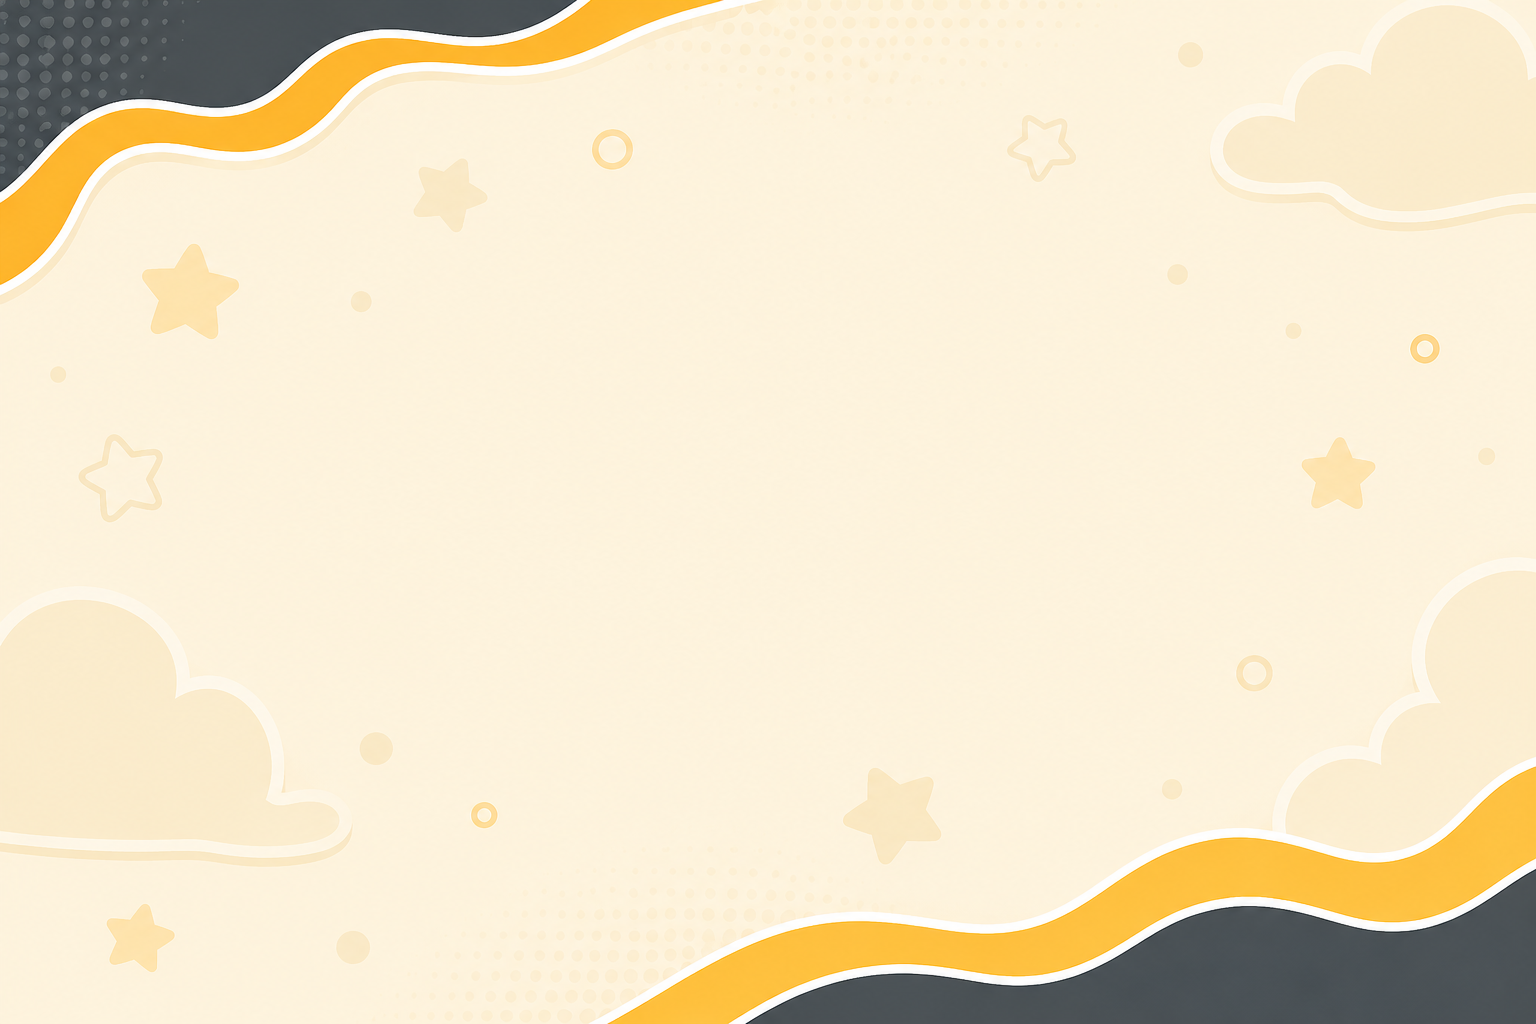
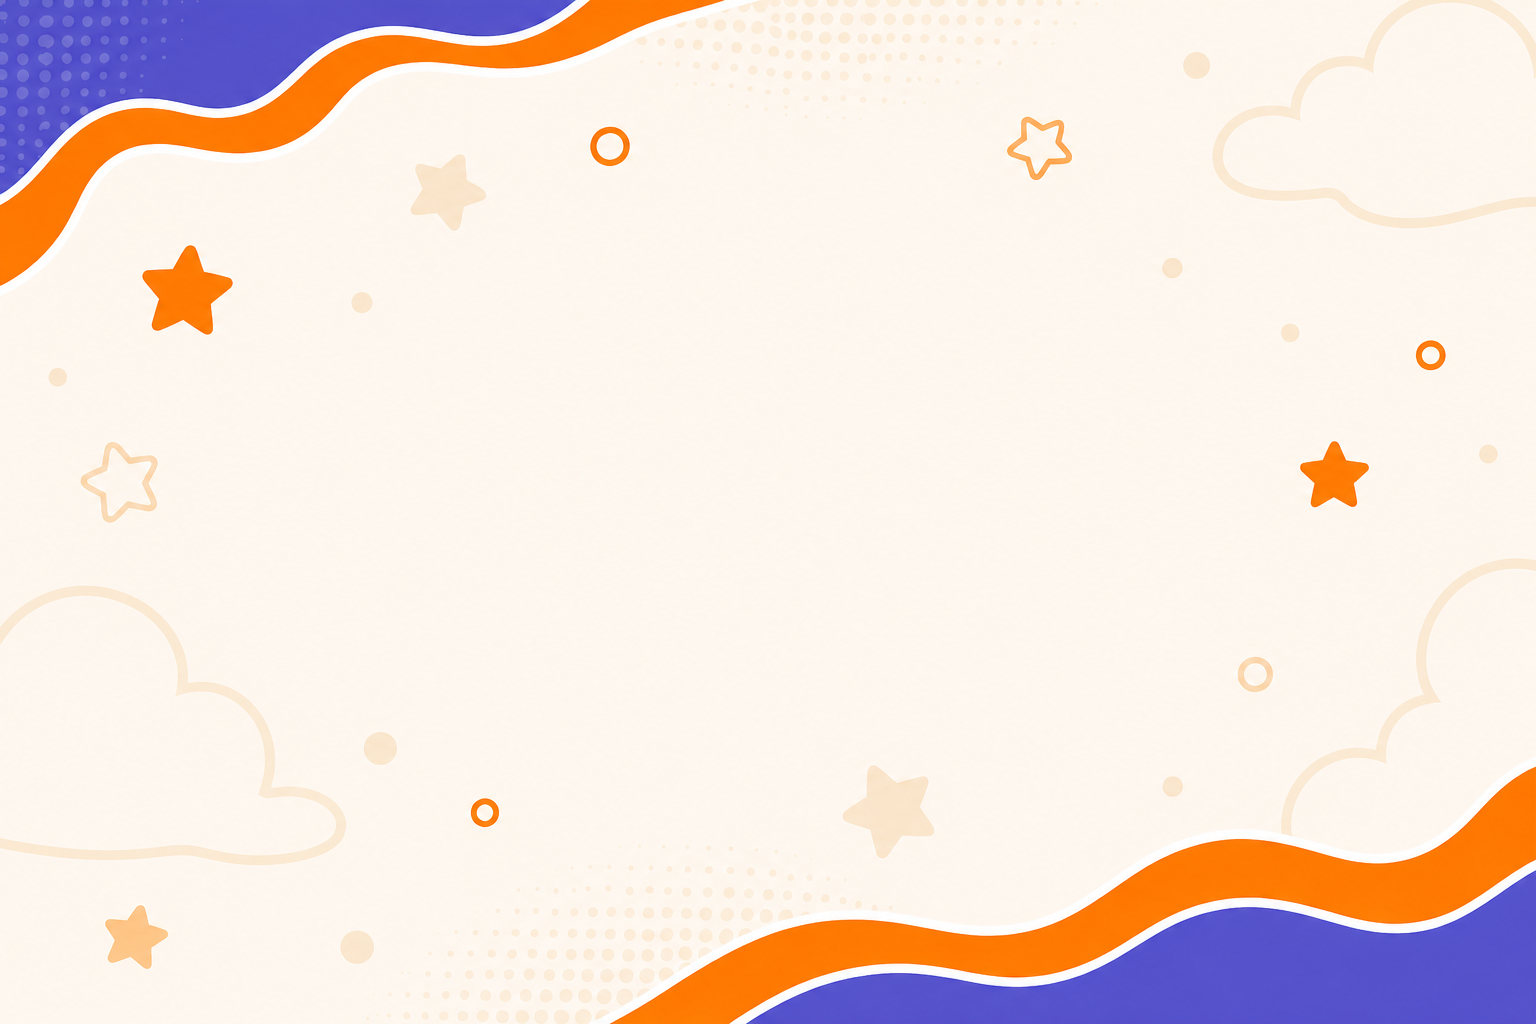
troca de cores, imagens

diff --git a/src/components/button/BackButton.js b/src/components/button/BackButton.js
@@ -1,26 +1,70 @@
+import { Sprite, Texture, Rectangle } from 'pixi.js';
 import { App } from '../../app/App.js';
 import { CustomButton } from './CustomButton.js';
+
+import BackArrow from '../../assets/images/back.png';
+import BackArrowHover from '../../assets/images/back_hover.png';
 
 const BACK_BUTTON_SETTINGS = {
   width: 70,
   height: 50,
-  backgroundColor: 0XE39F2D,
-  hoverColor: 0XFCD2AE,
-  borderColor: 0x474747,
-  fontSize: 18
+  backgroundColor: 0xFF7E00,
+  hoverColor: 0xFCD2AE,
+  borderColor: 0x5549E3
 };
 
 export class BackButton extends CustomButton {
   constructor() {
-    super('Back', BACK_BUTTON_SETTINGS)
+    super('', BACK_BUTTON_SETTINGS);
 
-    this._setPosition()
+    this.background.visible = false;
+    this.text.visible = false;
+
+    const normalTexture = Texture.from(BackArrow);
+    const hoverTexture = Texture.from(BackArrowHover);
+
+    const arrow = new Sprite(normalTexture);
+
+    arrow.anchor.set(0.5);
+    arrow.scale.set(0.17);
+    arrow.position.set(
+      BACK_BUTTON_SETTINGS.width / 2,
+      BACK_BUTTON_SETTINGS.height / 2
+    );
+
+    this.addChild(arrow);
+
+    this.eventMode = 'static';
+    this.hitArea = new Rectangle(
+      arrow.x - 15,
+      arrow.y - 15,
+      27,
+      27
+    );
+
+    this.onHover = () => {
+      arrow.texture = hoverTexture;
+    };
+
+    this.onLeave = () => {
+      arrow.texture = normalTexture;
+    };
+
+    // Garante que o botão sempre inicie na textura normal
+    arrow.texture = normalTexture;
+
+    // Força uma atualização no próximo ciclo
+    setTimeout(() => {
+      arrow.texture = normalTexture;
+    }, 0);
+
+    this._setPosition();
   }
 
   _setPosition() {
-    const positionX = 20
-    const positionY = App.getInstance().renderer.height - 70
+    const positionX = 20;
+    const positionY = App.getInstance().renderer.height - 70;
 
-    this.position.set(positionX, positionY)
+    this.position.set(positionX, positionY);
   }
 }

diff --git a/src/data/categories/countries.js b/src/data/categories/countries.js
@@ -1,25 +1,25 @@
 export const COUNTRIES = {
   title: 'Countries',
   items: [
-    { name: 'brazil', image: 'brazil.png' },
-    { name: 'america', image: 'america.png' },
-    { name: 'argentina', image: 'argentina.png' },
-    { name: 'australia', image: 'australia.png' },
-    { name: 'canada', image: 'canada.png' },
-    { name: 'china', image: 'china.png' },
-    { name: 'egypt', image: 'egypt.png' },
-    { name: 'england', image: 'england.png' },
-    { name: 'france', image: 'france.png' },
-    { name: 'germany', image: 'germany.png' },
-    { name: 'india', image: 'india.png' },
-    { name: 'ireland', image: 'ireland.png' },
-    { name: 'italy', image: 'italy.png' },
-    { name: 'japan', image: 'japan.png' },
-    { name: 'mexico', image: 'mexico.png' },
-    { name: 'russia', image: 'russia.png' },
-    { name: 'south africa', image: 'south_africa.png' },
-    { name: 'spain', image: 'spain.png' },
-    { name: 'thailand', image: 'thailand.png' },
-    { name: 'turkey', image: 'turkey.png' }
+    { name: 'Brazil', image: 'brazil.png' },
+    { name: 'America', image: 'america.png' },
+    { name: 'Argentina', image: 'argentina.png' },
+    { name: 'Australia', image: 'australia.png' },
+    { name: 'Canada', image: 'canada.png' },
+    { name: 'China', image: 'china.png' },
+    { name: 'Egypt', image: 'egypt.png' },
+    { name: 'England', image: 'england.png' },
+    { name: 'France', image: 'france.png' },
+    { name: 'Germany', image: 'germany.png' },
+    { name: 'India', image: 'india.png' },
+    { name: 'Ireland', image: 'ireland.png' },
+    { name: 'Italy', image: 'italy.png' },
+    { name: 'Japan', image: 'japan.png' },
+    { name: 'Mexico', image: 'mexico.png' },
+    { name: 'Russia', image: 'russia.png' },
+    { name: 'South Africa', image: 'south_africa.png' },
+    { name: 'Spain', image: 'spain.png' },
+    { name: 'Thailand', image: 'thailand.png' },
+    { name: 'Turkey', image: 'turkey.png' }
   ]
 };

diff --git a/src/components/button/ButtonInteraction.js b/src/components/button/ButtonInteraction.js
@@ -19,12 +19,28 @@ export class ButtonInteraction {
   }
 
   _mouseOver() {
-    this.button.background.changeColor(this.buttonConfig.hoverColor);
+    if (this.button.background.visible) {
+      this.button.background.changeColor(this.buttonConfig.hoverColor);
+    }
+
+    if (typeof this.button.onHover === 'function') {
+      this.button.onHover();
+    }
   }
+
   _mouseOut() {
-    this.button.background.changeColor(this.buttonConfig.backgroundColor);
+    if (this.button.background.visible) {
+      this.button.background.changeColor(this.buttonConfig.backgroundColor);
+    }
+
+    if (typeof this.button.onLeave === 'function') {
+      this.button.onLeave();
+    }
   }
+
   _mouseUp() {
-    this.button.background.changeColor(this.buttonConfig.backgroundColor);
+    if (this.button.background.visible) {
+      this.button.background.changeColor(this.buttonConfig.backgroundColor);
+    }
   }
 }

diff --git a/src/data/categories/subjects.js b/src/data/categories/subjects.js
@@ -5,14 +5,14 @@ export const SUBJECTS = {
     { name: 'art', image: 'art.png' },
     { name: 'biology', image: 'biology.png' },
     { name: 'chemistry', image: 'chemistry.png' },
-    { name: 'chinese', image: 'chinese.png' },
+    { name: 'Chinese', image: 'chinese.png' },
     { name: 'computing', image: 'computing.png' },
-    { name: 'english', image: 'english.png' },
+    { name: 'English', image: 'english.png' },
     { name: 'geography', image: 'geography.png' },
     { name: 'history', image: 'history.png' },
     { name: 'music', image: 'music.png' },
     { name: 'physical education', image: 'physical_education.png' },
     { name: 'physics', image: 'physics.png' },
-    { name: 'spanish', image: 'spanish.png' }
+    { name: 'Spanish', image: 'spanish.png' }
   ]
 };

diff --git a/src/styles/screens-components-styles/game-screen/components/round/round-counter-container-styles.js b/src/styles/screens-components-styles/game-screen/components/round/round-counter-container-styles.js
@@ -5,8 +5,8 @@ export const roundCounterContainerStyles = {
     width: 175,
     height: 75,
     backgroundColor: GLOBAL_COLORS.PRIMARY,
-    borderColor: 0x474747,
-    backgroundColor: 0xE39F2D,
+    borderColor: 0x5549e3,
+    backgroundColor: 0xFF7E00,
     borderWidth: 4,
     borderRadius: 30,
   },
@@ -14,8 +14,8 @@ export const roundCounterContainerStyles = {
     width: 175,
     height: 75,
     backgroundColor: GLOBAL_COLORS.PRIMARY,
-    borderColor: 0x474747,
-    backgroundColor: 0xE39F2D,
+    borderColor: 0x5549e3,
+    backgroundColor: 0xFF7E00,
     borderWidth: 4,
     borderRadius: 30,
   },

diff --git a/src/styles/screens-components-styles/game-screen/components/score/score-styles.js b/src/styles/screens-components-styles/game-screen/components/score/score-styles.js
@@ -6,8 +6,8 @@ export const scoreStyles = {
     width: 170,
     height: 70,
     backgroundColor: GLOBAL_COLORS.PRIMARY,
-    borderColor: 0x474747,
-    backgroundColor: 0xE39F2D,
+    borderColor: 0x5549e3,
+    backgroundColor: 0xFF7E00,
     borderWidth: 4,
     borderRadius: 25,
     fontSize: 30,
@@ -18,8 +18,8 @@ export const scoreStyles = {
     width: 185,
     height: 70,
     backgroundColor: GLOBAL_COLORS.PRIMARY,
-    borderColor: 0x474747,
-    backgroundColor: 0xE39F2D,
+    borderColor: 0x5549e3,
+    backgroundColor: 0xFF7E00,
     borderWidth: 4,
     borderRadius: 28,
     fontSize: 30,

diff --git a/src/components/button/buttonOptions.js b/src/components/button/buttonOptions.js
@@ -2,8 +2,8 @@ export function configureButtonOptions(buttonOptions) {
   return {
     width: buttonOptions.width || 200,
     height: buttonOptions.height || 50,
-    backgroundColor: buttonOptions.backgroundColor || 0xE39F2D,
-    borderColor: buttonOptions.borderColor || 0x474747,
+    backgroundColor: buttonOptions.backgroundColor || 0xFF7E00,
+    borderColor: buttonOptions.borderColor || 0x5549e3,
     borderSize: buttonOptions.borderSize || 4,
     borderRadius: buttonOptions.borderRadius || 32,
     fontFamily: buttonOptions.fontFamily || 'Arial, sans-serif',

diff --git a/src/styles/screens-components-styles/pre-game-screen/components/buttons/choose-button-styles.js b/src/styles/screens-components-styles/pre-game-screen/components/buttons/choose-button-styles.js
@@ -4,18 +4,18 @@ export const chooseButtonStyles = {
   desktop: {
     width: 200,
     height: 80,
-    backgroundColor: 0xE39F2D,
+    backgroundColor: 0xFF7E00,
     hoverColor: 0xFCD2AE,
-    borderColor: 0x474747,
+    borderColor: 0x5549e3,
     textColor: GLOBAL_COLORS.WHITE,
     fontSize: 25,
   },
   mobile: {
     width: 200,
     height: 80,
-    backgroundColor: 0xE39F2D,
+    backgroundColor: 0xFF7E00,
     hoverColor: 0xFCD2AE,
-    borderColor: 0x474747,
+    borderColor: 0x5549e3,
     textColor: GLOBAL_COLORS.WHITE,
     fontSize: 25,
   },

diff --git a/src/styles/screens-components-styles/pre-game-screen/components/buttons/play-button-styles.js b/src/styles/screens-components-styles/pre-game-screen/components/buttons/play-button-styles.js
@@ -4,18 +4,18 @@ export const playButtonStyles = {
   desktop: {
     width: 300,
     height: 100,
-    backgroundColor: 0xE39F2D,
+    backgroundColor: 0xFF7E00,
     hoverColor: 0xFCD2AE,
-    borderColor: 0x474747,
+    borderColor: 0x5549e3,
     textColor: GLOBAL_COLORS.WHITE,
     fontSize: 40,
   },
   mobile: {
     width: 290,
     height: 100,
-    backgroundColor: 0xE39F2D,
+    backgroundColor: 0xFF7E00,
     hoverColor: 0xFCD2AE,
-    borderColor: 0x474747,
+    borderColor: 0x5549e3,
     textColor: GLOBAL_COLORS.WHITE,
     fontSize: 40,
   },

diff --git a/src/screens/home-screen/components/title/Title.js b/src/screens/home-screen/components/title/Title.js
@@ -10,9 +10,9 @@ export class Title extends Sprite {
     this.anchor.set(0.5);
     this.position.set(
       homeScreenPositions.title.desktop.x,
-      homeScreenPositions.title.desktop.y + 30
+      homeScreenPositions.title.desktop.y + 20
     );
 
-    this.scale.set(0.36);
+    this.scale.set(0.80);
   }
 }

diff --git a/src/styles/screens-components-styles/game-screen/components/well-done-text/well-done-text-styles.js b/src/styles/screens-components-styles/game-screen/components/well-done-text/well-done-text-styles.js
@@ -4,11 +4,11 @@ export const wellDoneTextStyles = {
   desktop: {
     fontSize: 50,
     align: 'center',
-    fill: GLOBAL_COLORS.WHITE,
+    fill: 0x5549e3,
   },
   mobile: {
     fontSize: 50,
     align: 'center',
-    fill: GLOBAL_COLORS.WHITE,
+    fill: 0x5549e3,
   },
 };

diff --git a/src/styles/colors/global-colors.js b/src/styles/colors/global-colors.js
@@ -1,6 +1,6 @@
 export const GLOBAL_COLORS = {
-  PRIMARY: 0xE39F2D, // Dark blue
-  SECONDARY: 0x474747, // Orange
+  PRIMARY: 0xFF7E00, // Dark blue
+  SECONDARY: 0x5549e3, // Orange
   BUTTONS_HOVER: 0xFCD2AE, // Light orange
   WHITE: 0xFFFFFF,
   BLACK: 0x000000,
